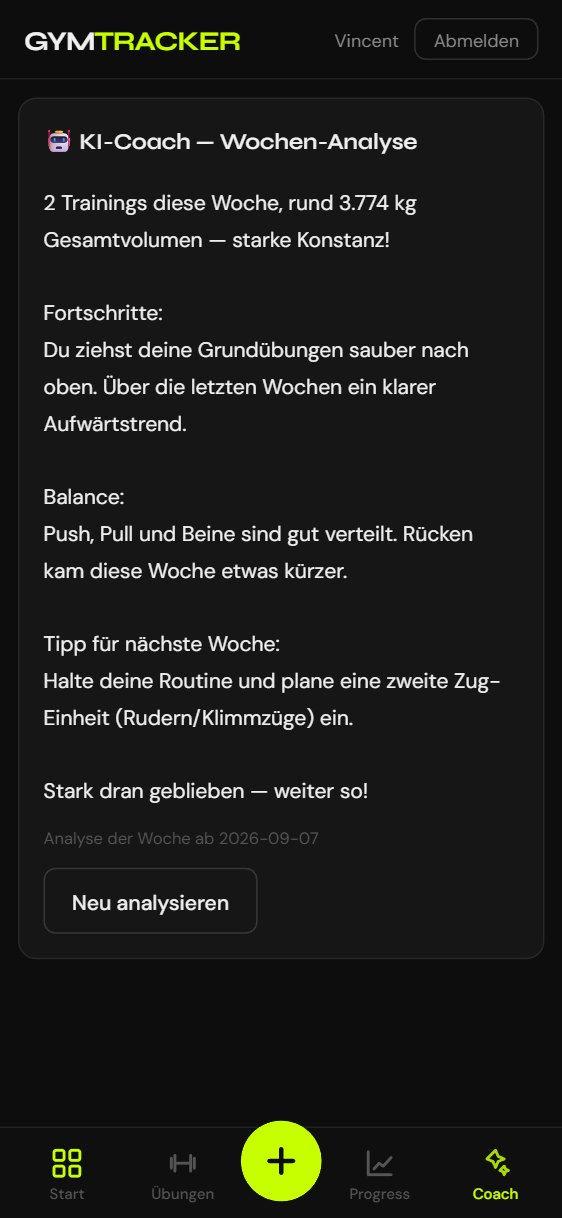
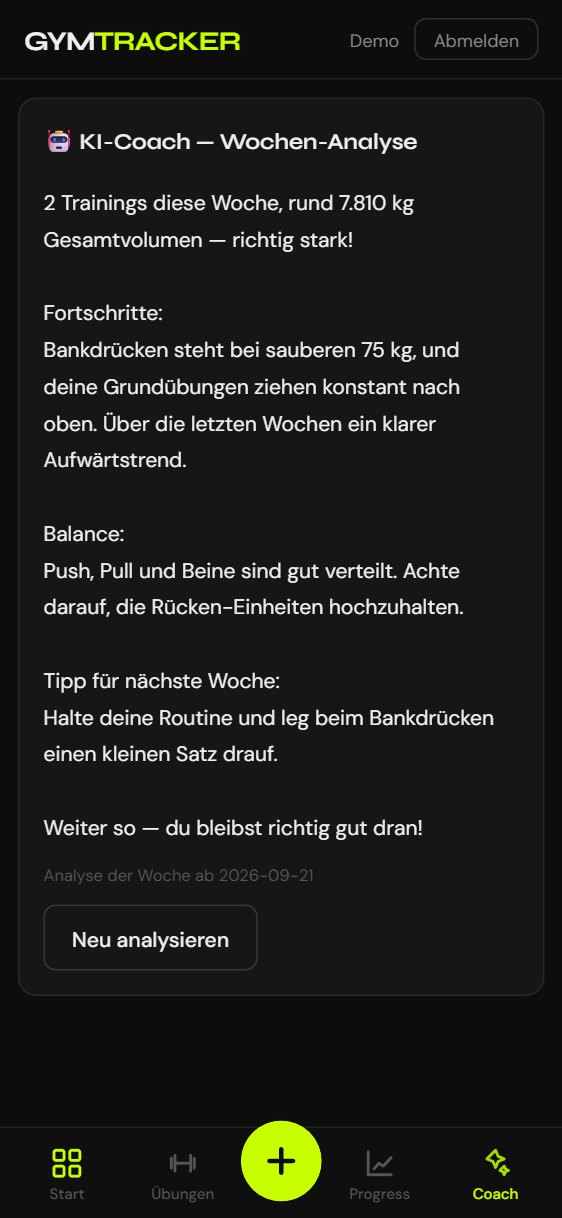
Add demo mode (?demo + login button): seeded data, no persistence; screenshots with round 75kg weights

Changed region(s): [[0.0605, 0.2808, 0.8772, 0.78], [0.4235, 0.156, 0.7562, 0.2184], [0.605, 0.0312, 0.6957, 0.0624]]

diff --git a/src/demo.js b/src/demo.js
@@ -1,0 +1,120 @@
+// Demo-Modus: vorbefüllte Daten für die Live-Demo.
+// Läuft rein im Speicher — es wird NICHTS in localStorage/Gist geschrieben,
+// d.h. Änderungen sind nach dem Neuladen wieder weg (siehe Guards in sync.js/coach.js).
+
+import { state } from './state.js';
+import { localDS } from './utils.js';
+
+const DEMO_EXERCISES = [
+  { id: 1, name: 'Bankdrücken', muscle: 'Brust' },
+  { id: 2, name: 'Kniebeuge', muscle: 'Beine' },
+  { id: 3, name: 'Klimmzüge', muscle: 'Rücken' },
+  { id: 4, name: 'Schulterdrücken', muscle: 'Schultern' },
+  { id: 5, name: 'Kreuzheben', muscle: 'Rücken' },
+  { id: 6, name: 'Bizeps-Curls', muscle: 'Bizeps' },
+];
+
+// Gewichts-Progression – immer in 2,5-kg-Schritten (runde Werte).
+// Bankdrücken landet über die Wochen sauber bei 75 kg.
+const PLAN = {
+  1: { start: 60, step: 2.5, every: 4 },
+  2: { start: 80, step: 5, every: 4 },
+  3: { start: 5, step: 2.5, every: 6 },
+  4: { start: 35, step: 2.5, every: 4 },
+  5: { start: 90, step: 5, every: 4 },
+  6: { start: 12.5, step: 2.5, every: 5 },
+};
+
+// Deterministischer Pseudo-Zufall (mulberry32) – natürliche, aber immer gleiche Verteilung.
+function makeRng(seed) {
+  return function () {
+    seed |= 0;
+    seed = (seed + 0x6d2b79f5) | 0;
+    let t = Math.imul(seed ^ (seed >>> 15), 1 | seed);
+    t = (t + Math.imul(t ^ (t >>> 7), 61 | t)) ^ t;
+    return ((t ^ (t >>> 14)) >>> 0) / 4294967296;
+  };
+}
+function shuffle(arr, rand) {
+  const a = arr.slice();
+  for (let i = a.length - 1; i > 0; i--) {
+    const j = Math.floor(rand() * (i + 1));
+    [a[i], a[j]] = [a[j], a[i]];
+  }
+  return a;
+}
+function weightFor(exId, weekIdx) {
+  const p = PLAN[exId];
+  return p.start + p.step * Math.floor(weekIdx / p.every);
+}
+
+export function loadDemoData() {
+  const today = new Date();
+  today.setHours(0, 0, 0, 0);
+  const mon = new Date(today);
+  mon.setDate(mon.getDate() - (mon.getDay() === 0 ? 6 : mon.getDay() - 1));
+
+  const rand = makeRng(20260101);
+  let wid = 1;
+  const workouts = [];
+  const addW = (date, exId, weekIdx) => {
+    const kg = weightFor(exId, weekIdx);
+    workouts.push({
+      id: wid,
+      date: localDS(date),
+      exId,
+      sets: [{ kg, reps: 8 }, { kg, reps: 6 }, { kg, reps: 8 }],
+      updatedAt: wid,
+      deleted: false,
+    });
+    wid++;
+  };
+
+  // 25 Wochen zurück bis letzte Woche: natürlich verstreut (2–4 Tage, selten 1).
+  for (let w = 25; w >= 1; w--) {
+    const ws = new Date(mon);
+    ws.setDate(ws.getDate() - w * 7);
+    const idx = 25 - w;
+    const roll = rand();
+    const n = roll < 0.1 ? 1 : roll < 0.28 ? 2 : 3 + Math.floor(rand() * 2);
+    const offsets = shuffle([0, 1, 2, 3, 4, 5, 6], rand).slice(0, n);
+    offsets.forEach((off) => {
+      const d = new Date(ws);
+      d.setDate(d.getDate() + off);
+      const exs = shuffle([1, 2, 3, 4, 5, 6], rand).slice(0, 1 + Math.floor(rand() * 2));
+      exs.forEach((exId) => addW(d, exId, idx));
+    });
+  }
+
+  // Diese Woche: feste, saubere Sessions (Bankdrücken = 75/75/75).
+  const day = (off) => {
+    const d = new Date(mon);
+    d.setDate(d.getDate() + off);
+    return d;
+  };
+  [
+    [0, [1, 4]],
+    [1, [2, 5]],
+    [3, [3, 6]],
+  ].forEach(([off, exs]) => {
+    if (day(off) > today) return;
+    exs.forEach((exId) => addW(day(off), exId, 25));
+  });
+
+  state.exercises = DEMO_EXERCISES.map((e) => ({ ...e, updatedAt: e.id, deleted: false }));
+  state.workouts = workouts;
+
+  // Passende, konsistente KI-Analyse für den Coach (ohne echten API-Aufruf).
+  const s = localDS(mon);
+  const e = localDS(today);
+  const tw = workouts.filter((x) => x.date >= s && x.date <= e);
+  const vol = Math.round(tw.reduce((a, x) => a + x.sets.reduce((b, y) => b + y.kg * y.reps, 0), 0));
+  const days = new Set(tw.map((x) => x.date)).size;
+  state.demoAnalysis =
+    `${days} Trainings diese Woche, rund ${vol.toLocaleString('de')} kg Gesamtvolumen — richtig stark!\n\n` +
+    `Fortschritte:\nBankdrücken steht bei sauberen 75 kg, und deine Grundübungen ziehen konstant nach oben. ` +
+    `Über die letzten Wochen ein klarer Aufwärtstrend.\n\n` +
+    `Balance:\nPush, Pull und Beine sind gut verteilt. Achte darauf, die Rücken-Einheiten hochzuhalten.\n\n` +
+    `Tipp für nächste Woche:\nHalte deine Routine und leg beim Bankdrücken einen kleinen Satz drauf.\n\n` +
+    `Weiter so — du bleibst richtig gut dran!`;
+}

diff --git a/src/main.js b/src/main.js
@@ -19,6 +19,7 @@ import { populateFilterSelect, renderHistory, deleteWorkout } from './views/hist
 import { populateChartSelect, setChartMode, renderChart } from './views/progress.js';
 import { maybeShowWhatsNew, dismissWhatsNew } from './whatsnew.js';
 import { renderCoach, renderCoachCard, generateAnalysis } from './coach.js';
+import { loadDemoData } from './demo.js';
 
 let currentTab = 'dashboard';
 
@@ -61,6 +62,27 @@ function afterLogin() {
   switchTab('dashboard');
   syncNow();
   maybeShowWhatsNew();
+}
+
+// Demo-Modus: vorbefüllte Daten, rein im Speicher (nichts wird gespeichert).
+function startDemo() {
+  state.demo = true;
+  state.currentUser = 'demo';
+  state.token = '';
+  loadDemoData();
+  document.getElementById('login-screen').style.display = 'none';
+  document.getElementById('header-user').textContent = 'Demo';
+  document.getElementById('demo-banner').style.display = 'flex';
+  const ss = document.getElementById('sync-status');
+  if (ss) ss.textContent = '';
+  switchTab('dashboard');
+}
+
+function exitDemo() {
+  state.demo = false;
+  state.demoAnalysis = null;
+  document.getElementById('demo-banner').style.display = 'none';
+  doLogout();
 }
 
 function wireEvents() {
@@ -137,6 +159,8 @@ function wireEvents() {
     if (e.key === 'Enter') doLogin();
   });
   document.getElementById('btn-reset-gist').addEventListener('click', resetGistId);
+  document.getElementById('btn-demo').addEventListener('click', startDemo);
+  document.getElementById('btn-demo-exit').addEventListener('click', exitDemo);
 
   // --- Aktivierung ---
   document.getElementById('btn-activate').addEventListener('click', checkActivation);
@@ -152,6 +176,10 @@ function boot() {
   initSync(refreshAfterSync);
   initAuth(afterLogin);
   wireEvents();
+  if (new URLSearchParams(location.search).has('demo')) {
+    startDemo();
+    return;
+  }
   bootSession();
 }
 

diff --git a/index.html b/index.html
@@ -36,6 +36,11 @@
   </div>
 </header>
 
+<div id="demo-banner" style="display:none;">
+  <span>🔍 <b>Demo-Modus</b> — Beispieldaten. Änderungen werden nicht gespeichert.</span>
+  <button id="btn-demo-exit">Verlassen</button>
+</div>
+
 <main>
 
   <!-- DASHBOARD -->
@@ -226,6 +231,8 @@
     <button id="btn-login" style="width:100%;padding:10px;border-radius:var(--radius-sm);border:none;background:var(--accent);color:#0d0d0d;font-weight:600;font-family:'DM Sans',sans-serif;font-size:14px;cursor:pointer;">Einloggen</button>
     <button id="btn-reset-gist" style="width:100%;padding:8px;margin-top:8px;border-radius:var(--radius-sm);border:1px solid var(--border2);background:transparent;color:var(--text3);font-family:'DM Sans',sans-serif;font-size:12px;cursor:pointer;">Gist zurücksetzen</button>
     <div id="login-error" style="color:var(--danger);font-size:13px;margin-top:8px;display:none;">Falsches Passwort.</div>
+    <div style="height:1px;background:var(--border);margin:1.1rem 0 0.9rem;"></div>
+    <button id="btn-demo" style="width:100%;padding:10px;border-radius:var(--radius-sm);border:1px solid var(--border2);background:transparent;color:var(--text);font-family:'DM Sans',sans-serif;font-size:13px;font-weight:500;cursor:pointer;">🔍 Live-Demo ansehen (ohne Login)</button>
   </div>
 </div>
 

diff --git a/styles.css b/styles.css
@@ -295,4 +295,40 @@ button { -webkit-tap-highlight-color: transparent; }
   transform: scale(0.99);
 }
 
+/* ===== Demo-Modus ===== */
+#demo-banner {
+  align-items: center;
+  justify-content: center;
+  gap: 12px;
+  flex-wrap: wrap;
+  padding: 9px 16px;
+  background: rgba(200, 255, 0, 0.1);
+  border-bottom: 1px solid rgba(200, 255, 0, 0.3);
+  color: var(--text);
+  font-size: 13px;
+  text-align: center;
+}
+#demo-banner b {
+  color: var(--accent);
+}
+#btn-demo-exit {
+  padding: 4px 12px;
+  border-radius: 999px;
+  border: 1px solid var(--border2);
+  background: transparent;
+  color: var(--text2);
+  font-family: 'DM Sans', sans-serif;
+  font-size: 12px;
+  cursor: pointer;
+  transition: border-color 0.15s, color 0.15s;
+}
+#btn-demo-exit:hover {
+  border-color: var(--accent);
+  color: var(--accent);
+}
+#btn-demo:hover {
+  border-color: var(--accent);
+  color: var(--accent);
+}
+
 

diff --git a/src/state.js b/src/state.js
@@ -28,6 +28,8 @@ export const state = {
   gistFilename: 'gym_tracker_data.json',
   chartMode: 'weight',
   dashChartMode: 'weight',
+  demo: false, // Demo-Modus: nichts wird persistiert/synchronisiert
+  demoAnalysis: null,
 };
 
 // --- Normalisierung / Rückwärtskompatibilität ---
@@ -61,6 +63,7 @@ export const exerciseById = (id) => state.exercises.find((e) => e.id === id);
 
 // --- Persistenz ---
 export function persistLocal() {
+  if (state.demo) return; // im Demo-Modus nichts speichern
   localStorage.setItem(KEYS.exercises, JSON.stringify(state.exercises));
   localStorage.setItem(KEYS.workouts, JSON.stringify(state.workouts));
   localStorage.setItem(KEYS.cacheUser, state.currentUser || '');

diff --git a/src/coach.js b/src/coach.js
@@ -88,6 +88,7 @@ function cacheKey(date = new Date()) {
   return `gym_analysis_${state.currentUser}_${weekKey(date)}`;
 }
 export function getCachedAnalysis(date = new Date()) {
+  if (state.demo) return state.demoAnalysis;
   try {
     return localStorage.getItem(cacheKey(date));
   } catch (e) {
@@ -103,6 +104,7 @@ function setCachedAnalysis(text, date = new Date()) {
 }
 
 export async function requestAnalysis(date = new Date()) {
+  if (state.demo) return state.demoAnalysis; // Demo: kein echter API-Aufruf
   if (!AI_ENDPOINT) throw new Error('not-configured');
   const res = await fetch(AI_ENDPOINT, {
     method: 'POST',

diff --git a/src/sync.js b/src/sync.js
@@ -33,6 +33,7 @@ export function setSyncStatus(msg, color) {
  * Lokal ist damit sofort persistent; die Netzwerk-Runde passiert gebündelt.
  */
 export function save() {
+  if (state.demo) return; // Demo: keine Persistenz, kein Sync
   persistLocal();
   clearTimeout(syncTimer);
   syncTimer = setTimeout(() => {
@@ -47,6 +48,7 @@ export function cancelPendingSync() {
 
 /** Voller Sync: erst pullen+mergen, dann den zusammengeführten Stand pushen. */
 export async function syncNow() {
+  if (state.demo) return;
   if (!state.token) {
     setSyncStatus('Kein Token – nur lokal', 'var(--danger)');
     return;

diff --git a/sw.js b/sw.js
@@ -16,6 +16,7 @@ const ASSETS = [
   './src/utils.js',
   './src/whatsnew.js',
   './src/coach.js',
+  './src/demo.js',
   './src/views/dashboard.js',
   './src/views/exercises.js',
   './src/views/log.js',

diff --git a/README.md b/README.md
@@ -13,7 +13,8 @@
 </p>
 
 <p align="center">
-  <b>🔗 <a href="https://vincentreddi.github.io/gym-tracker/">Live-Demo</a></b>
+  <b>🔗 <a href="https://vincentreddi.github.io/gym-tracker/?demo">Live-Demo ausprobieren</a></b><br>
+  <sub>startet mit Beispieldaten · Änderungen werden nicht gespeichert</sub>
 </p>
 
 Eine schlanke, **installierbare** Web-App zum Tracken von Krafttraining: Übungen anlegen,
